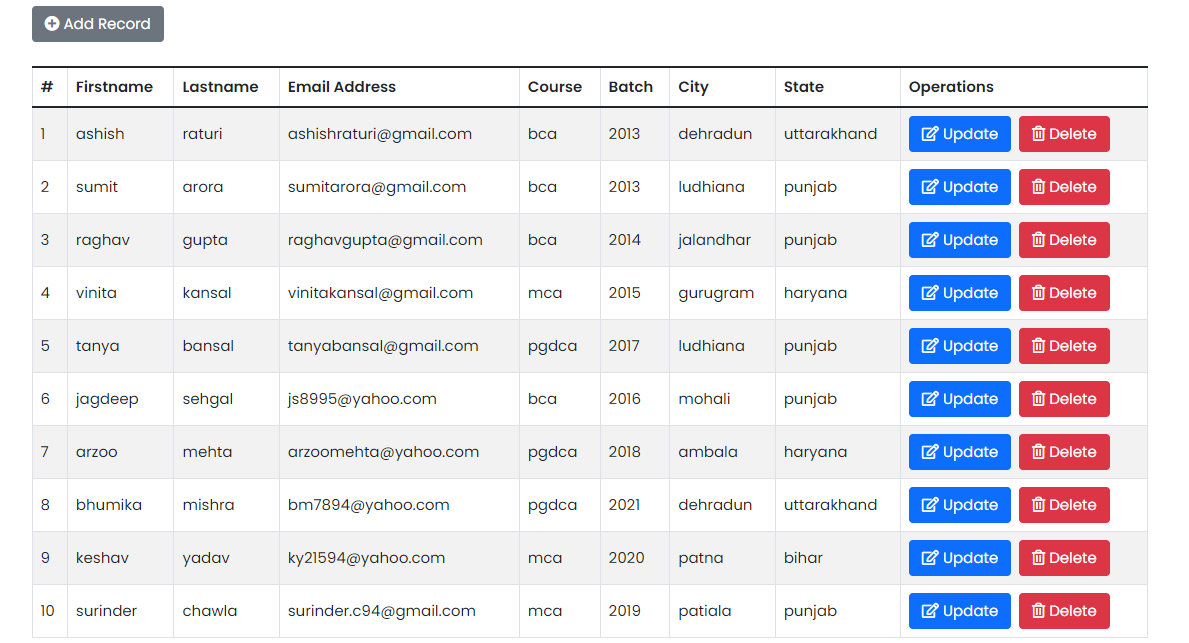
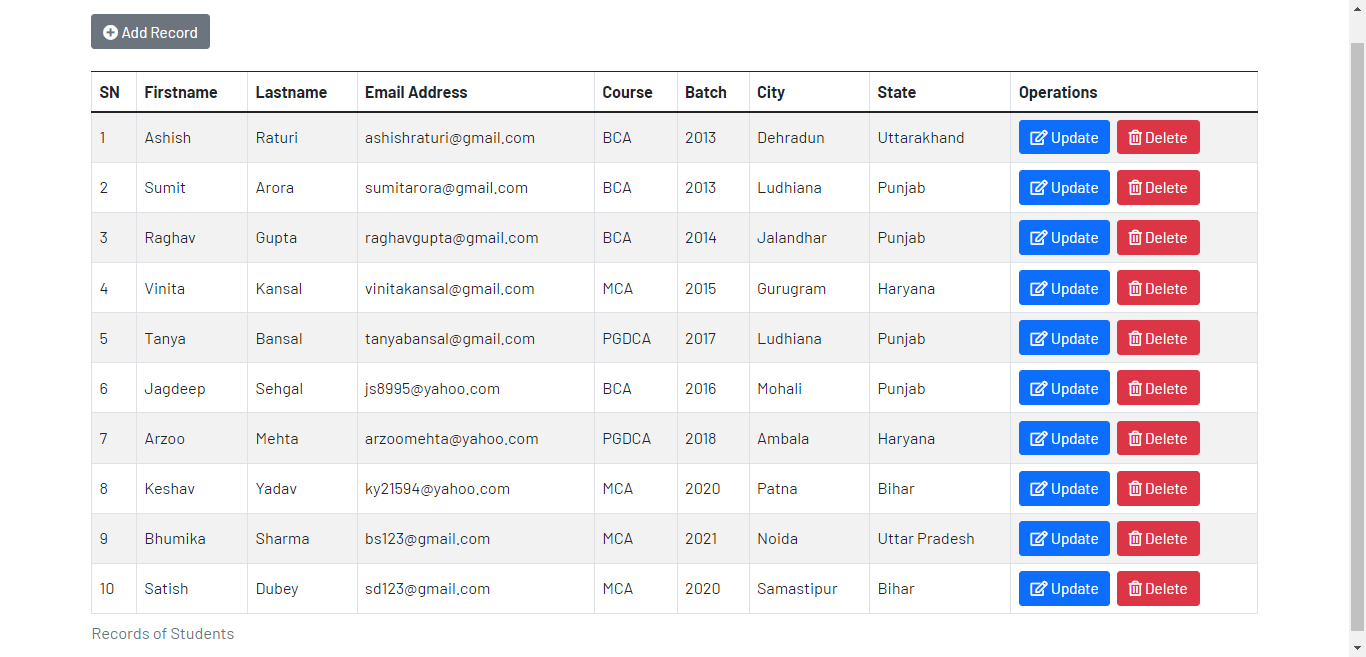
code update

diff --git a/style.css b/style.css
@@ -1,19 +1,20 @@
-@import url('https://fonts.googleapis.com/css2?family=Poppins:wght@400;500;600&display=swap');
+@import url('https://fonts.googleapis.com/css2?family=Barlow:wght@400;500;600;700&display=swap');
 
 body {
-    font-size: 15px;
-    font-family: 'Poppins', sans-serif;
+    font-size: 18px;
+    font-family: 'Barlow', sans-serif;
 }
 
 table>tbody>tr>td {
     vertical-align: middle;
 }
 
-.btn,.form-control {
-    font-size: 15px;
+.form-control,
+.btn {
+    font-size: 17px;
 }
 
 h3 {
-    font-size: 26px;
+    font-size: 28px;
     font-weight: 700;
 }

diff --git a/update.php b/update.php
@@ -15,18 +15,27 @@ if (isset($_POST["id"]) && !empty($_POST["id"])) {
         $fnameErr = "*This field is required";
     } else {
         $fname = trim($_POST["fname"]);
+        // check if fname contains only letters
+        if (!ctype_alpha($fname)) {
+            $fnameErr = "Only letters are allowed";
+        }
     }
 
     if (empty($_POST["lname"])) {
         $lnameErr = "*This field is required";
     } else {
         $lname = trim($_POST["lname"]);
+        // check if lname contains only letters
+        if (!ctype_alpha($lname)) {
+            $lnameErr = "Only letters are allowed";
+        }
     }
 
     if (empty($_POST["email"])) {
         $emailErr = "*This field is required";
     } else {
         $email = trim($_POST["email"]);
+        // check if e-mail address is valid
         if (!filter_var($email, FILTER_VALIDATE_EMAIL)) {
             $emailErr = "Invalid email address";
         }
@@ -42,11 +51,16 @@ if (isset($_POST["id"]) && !empty($_POST["id"])) {
         $batchErr = "*This field is required";
     } else {
         $batch = trim($_POST["batch"]);
-        if ($batch < 2013) {
-            $batchErr = "Value must be greater than or equal to 2013";
-        }
-        if ($batch > 2021) {
-            $batchErr = "Value must be less than or equal to 2021";
+        /* check if batch contains numbers only, also 
+        check min and max value to be entered */
+        if (!ctype_digit($batch)) {
+            $batchErr = "Batch must be a numeric value";
+        } elseif ($batch < 2013) {
+            $batchErr = "Batch must be greater than or equal to 2013";
+        } elseif ($batch > 2021) {
+            $batchErr = "Batch must be less than or equal to 2021";
+        } else {
+            // no code will execute
         }
     }
 
@@ -62,7 +76,7 @@ if (isset($_POST["id"]) && !empty($_POST["id"])) {
         $state = trim($_POST["state"]);
     }
 
-    // update data if no errors found
+    // update record if no errors found
     if (empty($fnameErr) && empty($lnameErr) && empty($emailErr) && empty($courseErr) && empty($batchErr) && empty($cityErr) && empty($stateErr)) {
 
         $sql = "UPDATE students SET firstname='$fname', lastname='$lname', email='$email', course='$course', batch='$batch', city='$city', state='$state' WHERE id='$id'";
@@ -114,7 +128,7 @@ if (isset($_POST["id"]) && !empty($_POST["id"])) {
     <meta charset="UTF-8">
     <meta http-equiv="X-UA-Compatible" content="IE=edge">
     <meta name="viewport" content="width=device-width, initial-scale=1.0">
-    <link href="https://cdn.jsdelivr.net/npm/bootstrap@5.1.2/dist/css/bootstrap.min.css" rel="stylesheet" integrity="sha384-uWxY/CJNBR+1zjPWmfnSnVxwRheevXITnMqoEIeG1LJrdI0GlVs/9cVSyPYXdcSF" crossorigin="anonymous">
+    <link href="https://cdn.jsdelivr.net/npm/bootstrap@5.1.3/dist/css/bootstrap.min.css" rel="stylesheet" integrity="sha384-1BmE4kWBq78iYhFldvKuhfTAU6auU8tT94WrHftjDbrCEXSU1oBoqyl2QvZ6jIW3" crossorigin="anonymous">
     <link href="style.css" rel="stylesheet">
     <title>Update Data - PHP CRUD</title>
 </head>
@@ -135,7 +149,8 @@ if (isset($_POST["id"]) && !empty($_POST["id"])) {
                             </div>
                             <div class="col-lg-6 mb-3">
                                 <label for="lname" class="form-label">Lastname*</label>
-                                <input type="text" class="form-control" id="lname" name="lname" value="<?= $lname; ?>" required>
+                                <input type="text" class="form-control" id="lname" name="lname" value="<?= $lname; ?>">
+                                <small class="text-danger"><?= $lnameErr; ?></small>
                             </div>
                             <div class="col-lg-12 mb-3">
                                 <label for="email" class="form-label">Email Address*</label>
@@ -149,7 +164,7 @@ if (isset($_POST["id"]) && !empty($_POST["id"])) {
                             </div>
                             <div class="col-lg-6 mb-3">
                                 <label for="batch" class="form-label">Batch*</label>
-                                <input type="number" class="form-control" id="batch" name="batch" value="<?= $batch; ?>">
+                                <input type="text" class="form-control" id="batch" name="batch" value="<?= $batch; ?>">
                                 <small class="text-danger"><?= $batchErr; ?></small>
                             </div>
                             <div class="col-lg-6 mb-3">

diff --git a/create.php b/create.php
@@ -12,18 +12,27 @@ if ($_SERVER["REQUEST_METHOD"] == "POST") {
         $fnameErr = "*This field is required";
     } else {
         $fname = test_input($_POST["fname"]);
+        // check if fname contains only letters
+        if (!ctype_alpha($fname)) {
+            $fnameErr = "Only letters are allowed";
+        }
     }
 
     if (empty($_POST["lname"])) {
         $lnameErr = "This field is required";
     } else {
         $lname = test_input($_POST["lname"]);
+        // check if lname contains only letters
+        if (!ctype_alpha($lname)) {
+            $lnameErr = "Only letters are allowed";
+        }
     }
 
     if (empty($_POST["email"])) {
         $emailErr = "*This field is required";
     } else {
         $email = test_input($_POST["email"]);
+        // check e-mail address is valid
         if (!filter_var($email, FILTER_VALIDATE_EMAIL)) {
             $emailErr = "Invalid email address";
         }
@@ -39,11 +48,16 @@ if ($_SERVER["REQUEST_METHOD"] == "POST") {
         $batchErr = "*This field is required";
     } else {
         $batch = test_input($_POST["batch"]);
-        if ($batch < 2013) {
-            $batchErr = "Value must be greater than or equal to 2013";
-        }
-        if ($batch > 2021) {
-            $batchErr = "Value must be less than or equal to 2021";
+        /* check if batch contains numbers only, also 
+        check min and max value to be entered */
+        if (!ctype_digit($batch)) {
+            $batchErr = "Batch must be a numeric value";
+        } elseif ($batch < 2013) {
+            $batchErr = "Batch must be greater than or equal to 2013";
+        } elseif ($batch > 2021) {
+            $batchErr = "Batch must be less than or equal to 2021";
+        } else {
+            // no code will execute
         }
     }
 
@@ -89,7 +103,7 @@ function test_input($data)
     <meta charset="UTF-8">
     <meta http-equiv="X-UA-Compatible" content="IE=edge">
     <meta name="viewport" content="width=device-width, initial-scale=1.0">
-    <link href="https://cdn.jsdelivr.net/npm/bootstrap@5.1.2/dist/css/bootstrap.min.css" rel="stylesheet" integrity="sha384-uWxY/CJNBR+1zjPWmfnSnVxwRheevXITnMqoEIeG1LJrdI0GlVs/9cVSyPYXdcSF" crossorigin="anonymous">
+    <link href="https://cdn.jsdelivr.net/npm/bootstrap@5.1.3/dist/css/bootstrap.min.css" rel="stylesheet" integrity="sha384-1BmE4kWBq78iYhFldvKuhfTAU6auU8tT94WrHftjDbrCEXSU1oBoqyl2QvZ6jIW3" crossorigin="anonymous">
     <link href="style.css" rel="stylesheet">
     <title>Create Data - PHP CRUD</title>
 </head>
@@ -125,7 +139,7 @@ function test_input($data)
                             </div>
                             <div class="col-lg-6 mb-3">
                                 <label for="batch" class="form-label">Batch*</label>
-                                <input type="number" class="form-control" id="batch" name="batch" value="<?= $batch; ?>">
+                                <input type="text" class="form-control" id="batch" name="batch" value="<?= $batch; ?>">
                                 <small class="text-danger"><?= $batchErr; ?></small>
                             </div>
                             <div class="col-lg-6 mb-3">

diff --git a/index.php b/index.php
@@ -6,7 +6,7 @@
     <meta http-equiv="X-UA-Compatible" content="IE=edge">
     <meta name="viewport" content="width=device-width, initial-scale=1.0">
     <link rel="stylesheet" href="https://cdnjs.cloudflare.com/ajax/libs/font-awesome/5.15.4/css/all.min.css" integrity="sha512-1ycn6IcaQQ40/MKBW2W4Rhis/DbILU74C1vSrLJxCq57o941Ym01SwNsOMqvEBFlcgUa6xLiPY/NS5R+E6ztJQ==" crossorigin="anonymous" referrerpolicy="no-referrer" />
-    <link href="https://cdn.jsdelivr.net/npm/bootstrap@5.1.2/dist/css/bootstrap.min.css" rel="stylesheet" integrity="sha384-uWxY/CJNBR+1zjPWmfnSnVxwRheevXITnMqoEIeG1LJrdI0GlVs/9cVSyPYXdcSF" crossorigin="anonymous">
+    <link href="https://cdn.jsdelivr.net/npm/bootstrap@5.1.3/dist/css/bootstrap.min.css" rel="stylesheet" integrity="sha384-1BmE4kWBq78iYhFldvKuhfTAU6auU8tT94WrHftjDbrCEXSU1oBoqyl2QvZ6jIW3" crossorigin="anonymous">
     <link href="style.css" rel="stylesheet">
     <title>Display Data - PHP CRUD</title>
 </head>
@@ -15,10 +15,10 @@
     <div class="container mt-5">
         <a href="create.php" class="btn btn-secondary"><i class="fas fa-plus-circle"></i> Add Record</a>
         <table class="table table-bordered table-striped mt-4">
-            <caption>Records of students</caption>
+            <caption>Records of Students</caption>
             <thead>
                 <tr>
-                    <th>#</th>
+                    <th>SN</th>
                     <th>Firstname</th>
                     <th>Lastname</th>
                     <th>Email Address</th>
@@ -45,13 +45,13 @@
                     foreach ($row as $row) { ?>
                         <tr>
                             <td><?= $count++; ?></td>
-                            <td><?= $row["firstname"]; ?></td>
-                            <td><?= $row["lastname"]; ?></td>
+                            <td class="text-capitalize"><?= $row["firstname"]; ?></td>
+                            <td class="text-capitalize"><?= $row["lastname"]; ?></td>
                             <td><?= $row["email"]; ?></td>
-                            <td><?= $row["course"]; ?></td>
+                            <td class="text-uppercase"><?= $row["course"]; ?></td>
                             <td><?= $row["batch"]; ?></td>
-                            <td><?= $row["city"]; ?></td>
-                            <td><?= $row["state"]; ?></td>
+                            <td class="text-capitalize"><?= $row["city"]; ?></td>
+                            <td class="text-capitalize"><?= $row["state"]; ?></td>
                             <td>
                                 <a href="update.php?id=<?= $row['id']; ?>" class="btn btn-primary"><i class="far fa-edit"></i> Update</a>&nbsp;
                                 <a href="delete.php?id=<?= $row["id"]; ?>" class=" btn btn-danger" onclick="return checkDelete();"><i class="far fa-trash-alt"></i> Delete</a>
